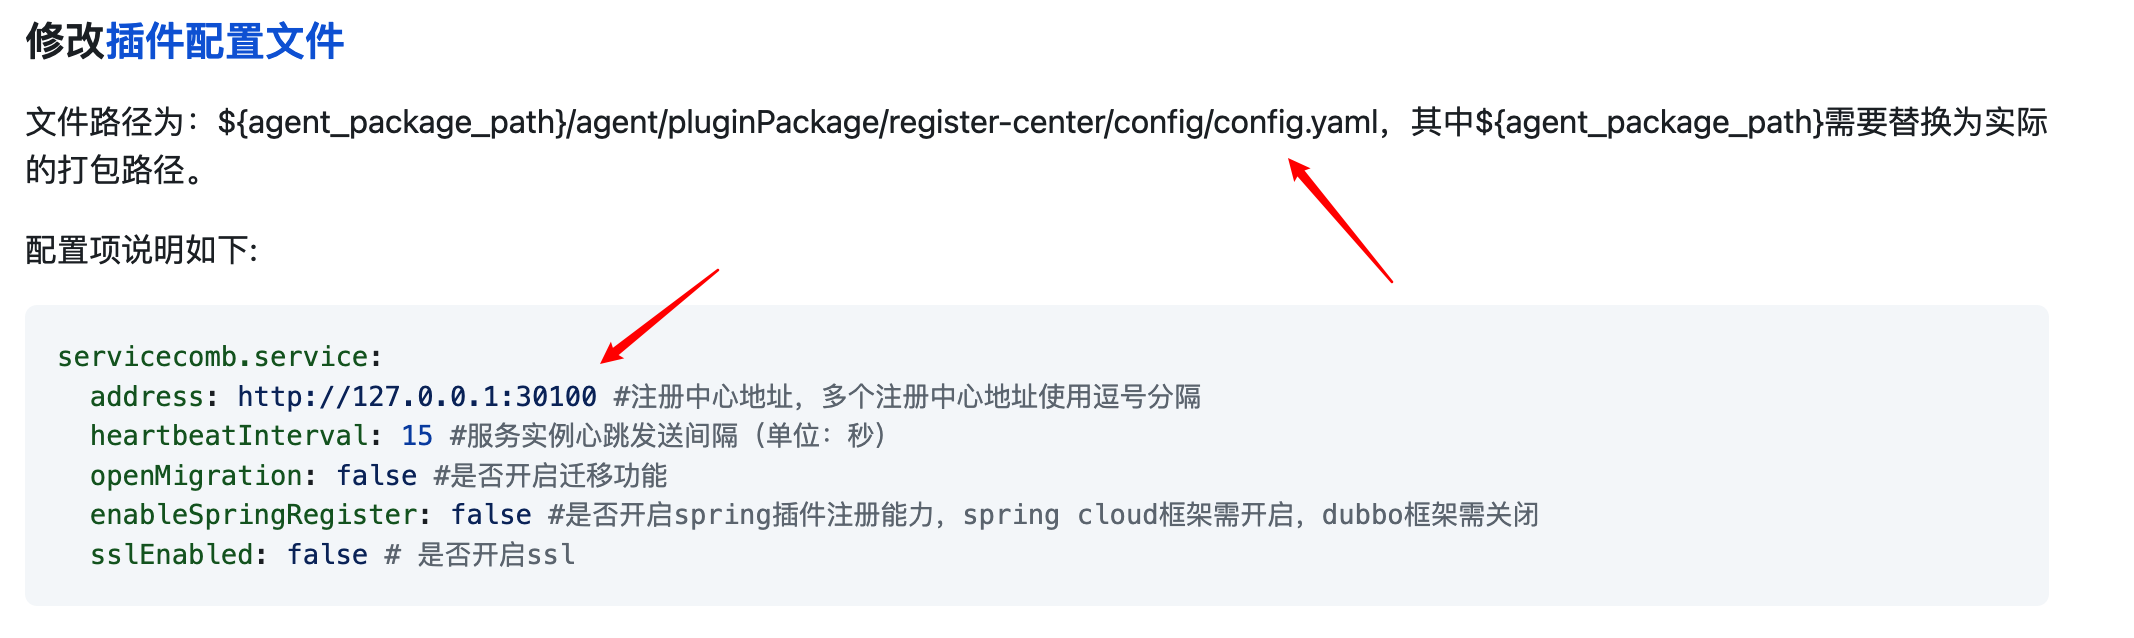
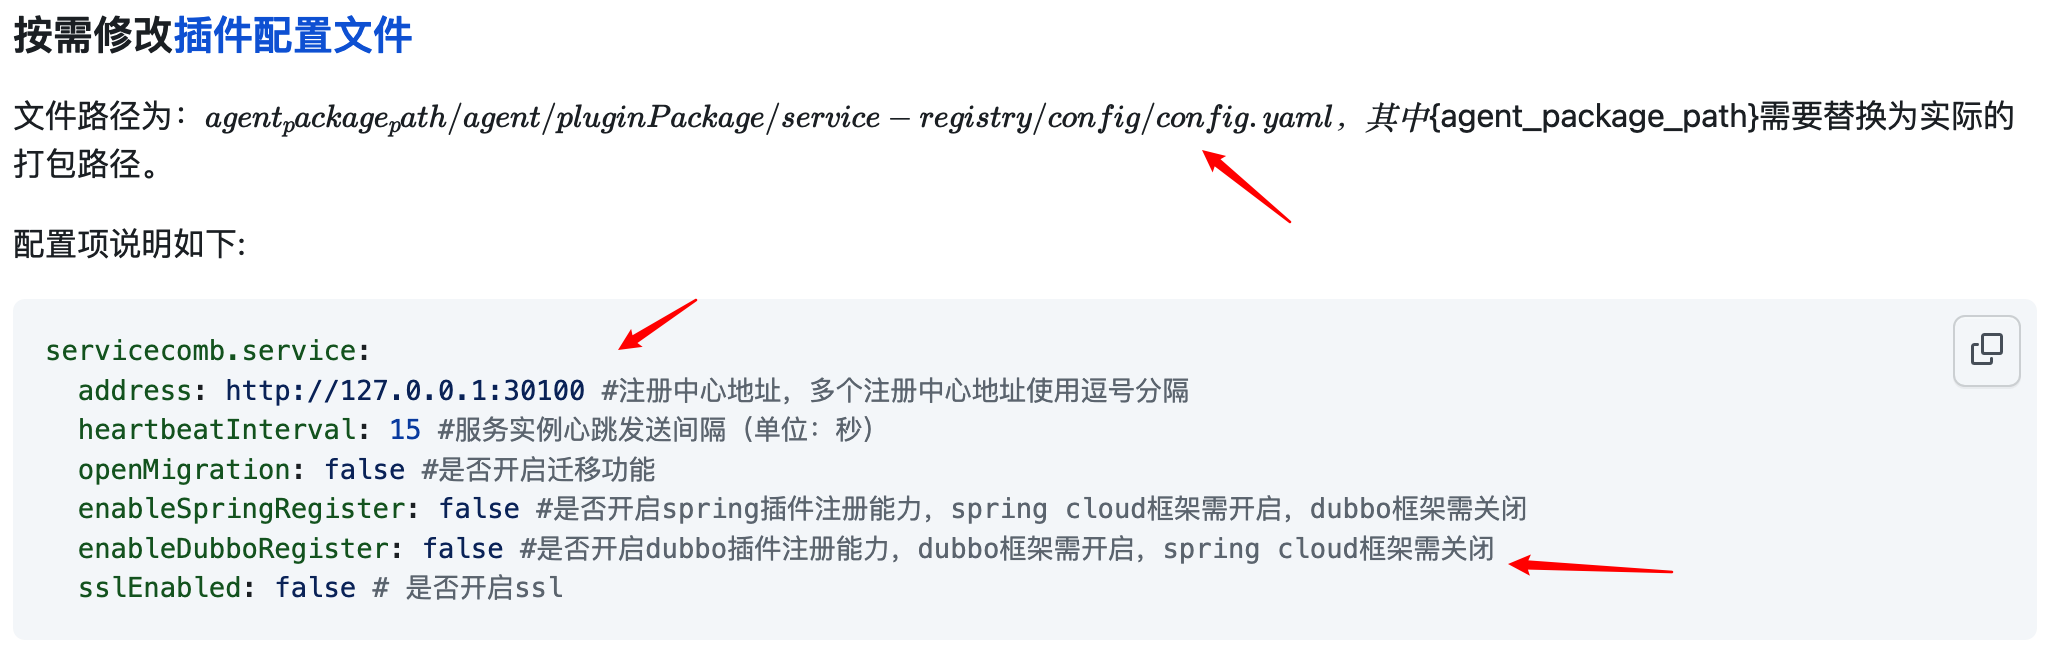
update guide

diff --git a/README.md b/README.md
@@ -318,6 +318,10 @@ OS: Centos 7
 
 开启 enableOnStart 开关，以及修改endpoints，region-2中的sc机子ip。
 
+**新增修改白名单**：指定服务同步。这边描述一下如果要同步所有服务则在rules 使用"*"，如果设置为 sync带星，则会同步以sync为前缀的服务。 
+
+![](./img/whitelist.png)
+
 **重复上述操作，去修改其他机子上的 sc 的配置**。
 
 然后在各个机子上运行
@@ -328,17 +332,21 @@ OS: Centos 7
 
 http://192.168.81.128:30103/
 
+> 这边展示的是同步所有的服务！！！
+
 ![](./img/front-1.png)
 
 ![](./img/front-2.png)
 
+
+
 ### 3.4 安装后验证
+
+#### 3.4.1 同步所有的服务
 
 curl -k http://192.168.81.128:30100/health
 
 ![](./img/health.png)
-
-
 
 ```yaml
 {
@@ -489,25 +497,45 @@ curl -k http://192.168.81.128:30100/health
 
 如上图所示，请求创建一个服务，创建成功后以及同步到另外一个 region 了。
 
+#### 3.4.2 同步指定服务
+
+> 这边白名单指定了同步服务的前缀名
+
+```yaml
+whitelist:
+    service:
+      # usage for example "sync*"
+      rules:
+        - "sync*"
+```
+
+![](./img/service-abcd.png)
+
+![](./img/sync_1111.png)
+
+![](./img/white-sync.png)
+
+
+
 ### 3.5 使用Sermant
 
 这边准备好backend，和zookeeper。
 
 ![](./img/sermant-prepare.png)
 
-Sermant可以自己编包，或者去 [release](https://github.com/huaweicloud/Sermant/releases) 边下载。
+Sermant可以自己编包，或者去 [release](https://github.com/huaweicloud/Sermant/releases) 边下载。目前 Sermant 已经发布了 0.3.0 版本
 
 zk[下载地址](http://archive.apache.org/dist/zookeeper/)。
 
 ![](./img/sermant-tar.png)
 
-
+![](./img/sermant-v0.3.0.png)
 
 #### 3.5.1 文档资料
 
-https://github.com/huaweicloud/Sermant/blob/develop/docs/user-guide/register/document.md
+https://github.com/huaweicloud/Sermant/blob/develop/docs/user-guide/registry/document.md
 
- https://github.com/huaweicloud/Sermant/blob/develop/docs/user-guide/register/dubbo-register-migiration.md
+https://github.com/huaweicloud/Sermant/blob/develop/docs/user-guide/registry/dubbo-registry-migiration.md
 
 #### 3.5.2 对接Nacos
 
@@ -515,11 +543,11 @@ https://github.com/huaweicloud/Sermant/blob/develop/docs/user-guide/register/doc
 
 1.已经部署好了nacos
 
-2.编译好了 [demo 应用](https://github.com/huaweicloud/Sermant/tree/develop/sermant-plugins/sermant-register-center/demo-register/demo-register-dubbo)
+2.编译好了 [demo 应用](https://github.com/huaweicloud/Sermant/tree/develop/sermant-plugins/sermant-service-registry/demo-registry/demo-registry-dubbo)
 
 > 这边可查看这个文档
 >
-> https://github.com/huaweicloud/Sermant/blob/develop/docs/user-guide/register/dubbo-register-migiration.md
+> https://github.com/huaweicloud/Sermant/blob/develop/docs/user-guide/registry/dubbo-registry-migiration.md
 
 ---
 
@@ -561,18 +589,24 @@ http://192.168.81.128:28020/test
 
 单注册也需要修改这边的address的sc
 
-![](./img/dubbo-sc.png)
+![](./img/sc-config.png)
+
+设置demo应用的 application.yaml ，修改服务名为 sync 开头
+
+![](./img/sync-consumer.png)
+
+![](./img/sync-provider.png)
 
 **步骤一**：部署provider
 
 ```java
-java -javaagent:/root/sermant/sermant-agent/agent/sermant-agent.jar=appName=dubbo-provider -jar dubbo-provider.jar
+java -Dservicecomb.service.enableDubboRegister=true -javaagent:/root/sermant/sermant-agent/agent/sermant-agent.jar=appName=dubbo-provider -jar dubbo-provider.jar
 ```
 
 **步骤二**：部署consumer
 
 ```java
-java -javaagent:/root/sermant/sermant-agent/agent/sermant-agent.jar=appName=dubbo-provider -jar dubbo-consumer.jar 
+java -Dservicecomb.service.enableDubboRegister=true -javaagent:/root/sermant/sermant-agent/agent/sermant-agent.jar=appName=dubbo-consumer -jar dubbo-consumer.jar 
 ```
 
 **步骤三**：测试
@@ -583,9 +617,7 @@ http://192.168.81.128:28020/test
 
 ![](./img/test-sc.png)
 
-![](./img/sc-128.png)
-
-![](./img/sc-133.png)
+![](./img/sync-c-p.png)
 
 已经同步到另外一个region了。
 
@@ -593,9 +625,9 @@ http://192.168.81.128:28020/test
 
 详细见文档：https://github.com/huaweicloud/Sermant/blob/develop/docs/user-guide/registry/dubbo-registry-migiration.md
 
-修改`${agent_package_path}/agent/pluginPackage/register-center/config/config.yaml`
+修改`${agent_package_path}/agent/pluginPackage/service-registry/config/config.yaml`
 
-![](./img/sermant-config.png)
+![](./img/registry-config.png)
 
 **步骤一**：注册provider
 
